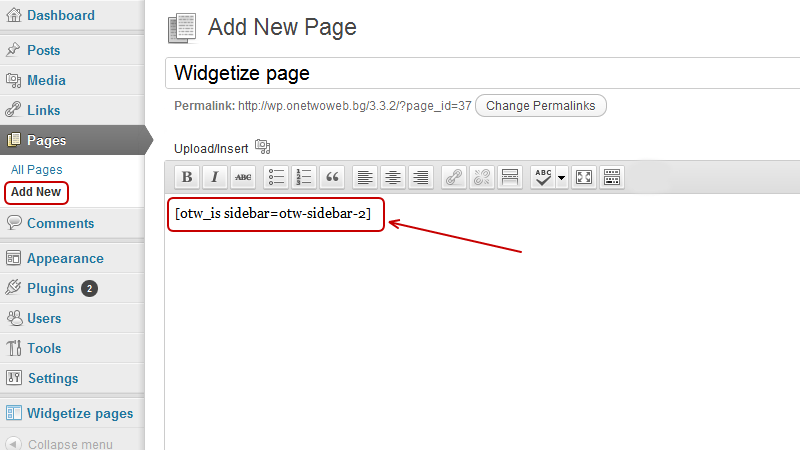
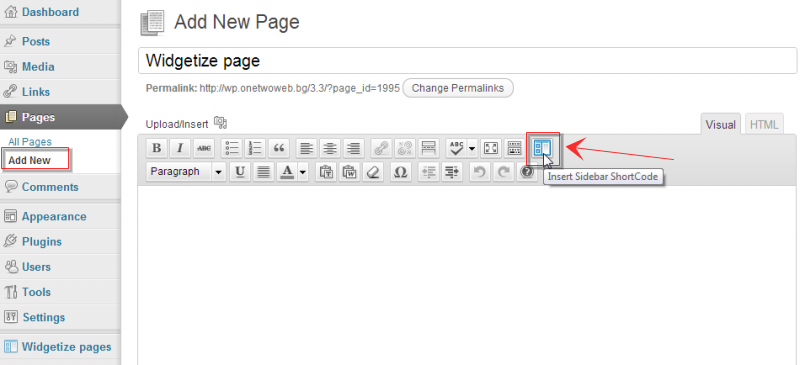
Insert Sidebar Shortcode button in the page/post editor
git-svn-id: https://plugins.svn.wordpress.org/widgetize-pages-light/trunk@621192 b8457f37-d9ea-0310-8a92-e5e31aec5664

diff --git a/include/otw_list_sidebars.php b/include/otw_list_sidebars.php
@@ -106,7 +106,7 @@ Follow on <a href="http://twitter.com/OTWthemes">Twitter</a> | <a href="http://w
 			<?php }?>
 		</tbody>
 	</table>
-	<div class="updated einfo"><p><?php _e('Use the shordcode feature to add a sidebar in your pages/posts. Shortcodes can be added in: <br />- page/post content - copy the shortcode and paste it in the editor of a page/post <br />- any page template using the do_shortcode WP function.<br /><br /> Use the Sidebar ID to build your shortcodes. <br />Example: [otw_is sidebar=otw-sidebar-1]' );?></p></div>
+	<div class="updated einfo"><p><?php _e('Use the shordcode feature to add a sidebar in your pages/posts/template files. Shortcodes can be added in: <br />- page/post content - select the sidebar you want to insert from the Insert Sidebar ShortCode button in your page/post editor. <br />- page/post content - copy the shortcode and paste it in the editor of a page/post. <br />- any page template using the do_shortcode WP function.<br /><br /> Use the Sidebar ID to build your shortcodes. <br />Example: [otw_is sidebar=otw-sidebar-1]' );?></p></div>
 	<?php }else{ ?>
 		<p><?php _e('No custom sidebars found.')?></p>
 	<?php } ?>

diff --git a/otw_sidebar_manager.php b/otw_sidebar_manager.php
@@ -4,7 +4,7 @@ Plugin Name: Widgetize pages Light
 Plugin URI: http://otwthemes.com/?utm_source=wp.org&utm_medium=admin&utm_content=site&utm_campaign=wpl
 Description: Drop widgets in page or post content area. Widgetize a page. Build your custom page layout in no time. No coding, easy and fun! 
 Author: OTWthemes.com
-Version: 1.2
+Version: 1.3
 Author URI: http://otwthemes.com/?utm_source=wp.org&utm_medium=admin&utm_content=site&utm_campaign=wpl
 */
 $wp_int_items = array(
@@ -45,7 +45,10 @@ function otw_wpl_sidebars_action(){
 	require_once( 'include/otw_sidebar_action.php' );
 }
 
-
+function otw_wpl_editor_dialog(){
+	require_once( 'include/otw_editor_dialog.php' );
+	die;
+}
 /** plugin info
   *
   */
@@ -95,6 +98,10 @@ add_action('admin_enqueue_scripts', 'enqueue_wpl_scripts');
 add_action('admin_print_styles', 'enqueue_wpl_styles' );
 add_shortcode('otw_is', 'otw_call_sidebar');
 
+//register some admin actions
+if( is_admin() ){
+	add_action( 'wp_ajax_otw_wpl_editor_dialog', 'otw_wpl_editor_dialog' );
+}
 /** 
  *call init plugin function
  */

diff --git a/include/otw_functions.php b/include/otw_functions.php
@@ -101,8 +101,29 @@ function otw_wpl_plugin_init(){
 	
 	if( is_admin() ){
 		require_once( plugin_dir_path( __FILE__ ).'/otw_process_actions.php' );
+		
+		if( get_user_option('rich_editing') ){
+			add_filter('mce_external_plugins', 'add_otw_wpl_tinymce_plugin');
+			add_filter('mce_buttons', 'register_otw_wpl_tinymce_button');
+		}
 	}else{
 	}
+}
+
+/**
+ * add tinymce plugin
+ */
+function add_otw_wpl_tinymce_plugin($plugin_array){
+	global $otw_wpl_plugin_url;
+	$plugin_array['otwsbm'] = $otw_wpl_plugin_url.'/js/otw_editor_plugin.js';
+	return $plugin_array;
+}
+/**
+ * register button plugin
+ */
+function register_otw_wpl_tinymce_button($buttons){
+	array_push($buttons, "separator", "otwsbm");
+	return $buttons;
 }
 
 function otw_wpl_admin_notice(){
